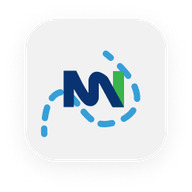
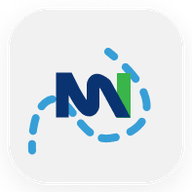
[DEBUG] Debug pour les assets 3

Changed region(s): [[0.125, 0.25, 0.8125, 0.8125]]

diff --git a/frontend/index.html b/frontend/index.html
@@ -2,7 +2,8 @@
 <html lang="fr">
   <head>
     <meta charset="UTF-8" />
-    <link rel="icon" type="image/svg+xml" href="/favicon.svg" />
+    <link rel="icon" type="image/png" sizes="48x48" href="/favicon-48.png" />
+    <link rel="icon" type="image/png" sizes="96x96" href="/favicon-96.png" />
     <link rel="apple-touch-icon" href="/app-icon.png" />
     <link rel="manifest" href="/manifest.webmanifest" />
     <meta name="viewport" content="width=device-width, initial-scale=1.0, viewport-fit=cover" />
